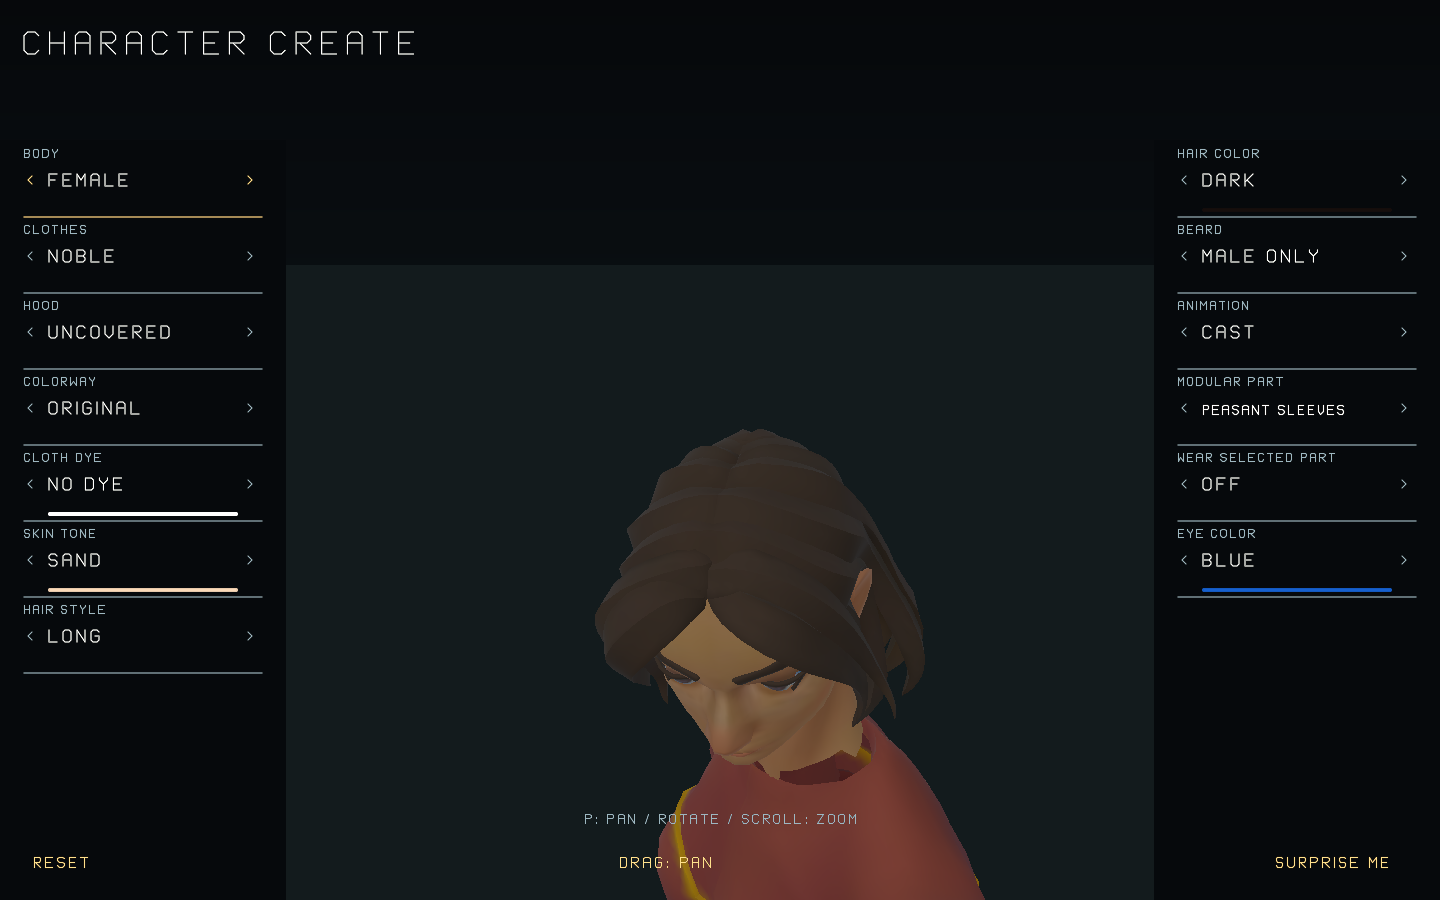
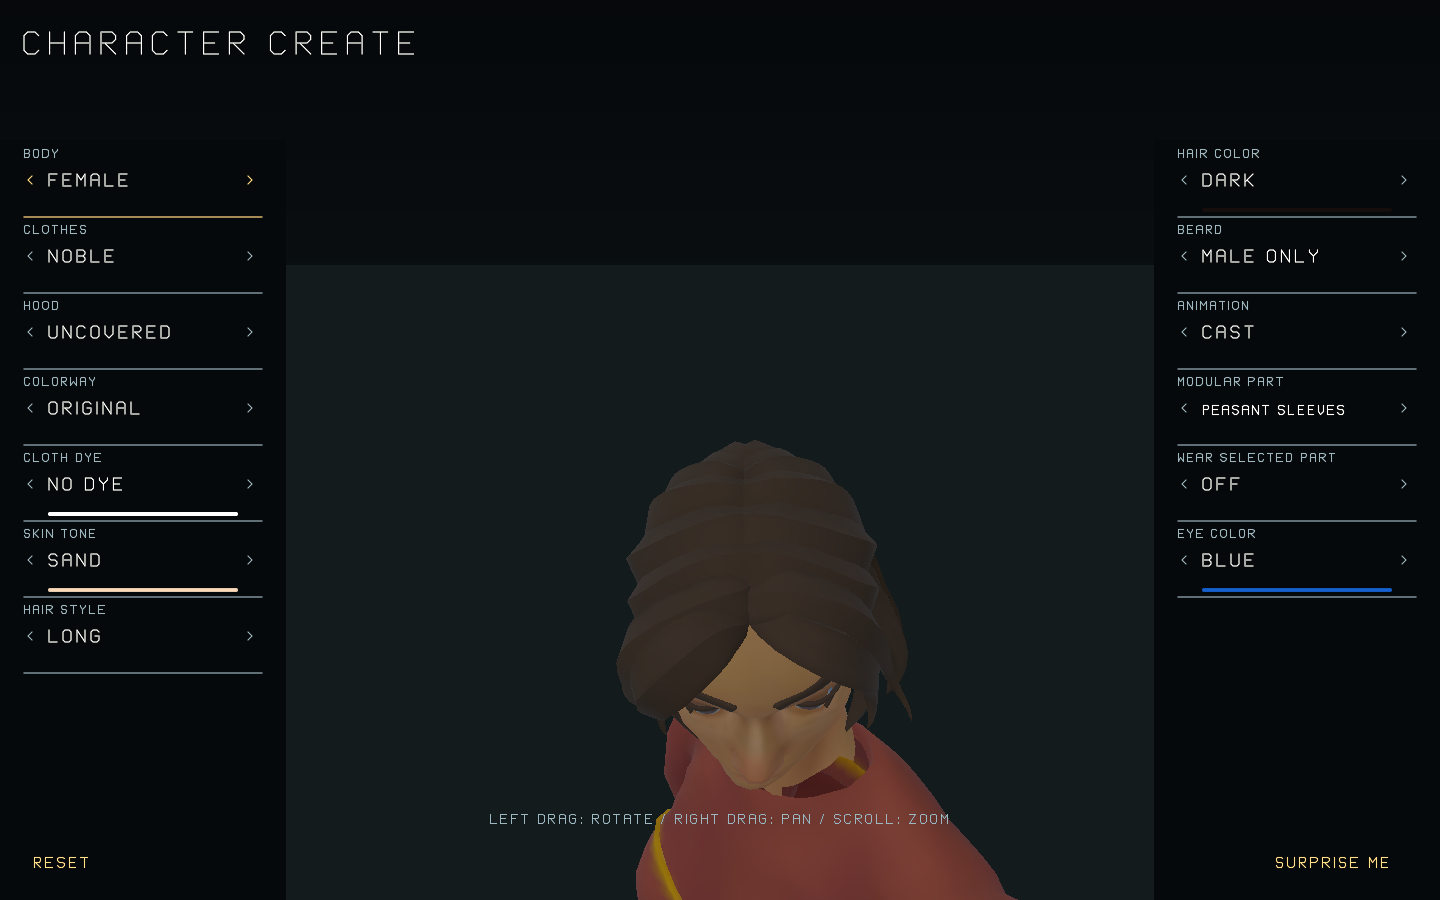
Use left-drag rotation and right-drag panning in Character Create

diff --git a/coax/web/host.js b/coax/web/host.js
@@ -23,6 +23,8 @@
 //   coaxial_blur(state)       the page lost the keyboard: nothing is held
 //   coaxial_pointer(state, x, y, phase, kind, id) device pixels; phase 0 down 1 move 2 up 3 cancel;
 //                             kind 0 a mouse, 1 a finger or pen; id tells fingers apart
+//   coaxial_pointer_buttons_v1(state, x, y, phase, kind, id, button) optional additive DOM button hook;
+//                             button 0 left, 2 right, -1 on ordinary pointer moves
 //   coaxial_wheel(state, dy)  the wheel, CSS pixels down (the page doesn't scroll)
 //   coaxial_tilt(state, dyaw, dpitch) the phone turned, radians (the OpenAgents app's gyro: coaxial.tilt)
 //   coaxial_inbox(state), coaxial_inbox_cap(), coaxial_message(state, kind, length)
@@ -3244,7 +3246,8 @@ for (const [type, phase] of [["pointerdown", 0], ["pointermove", 1], ["pointerup
     const dpr = scale();
     if (ph !== 1) touched = touch;
     if (ph === 0) startAudio();
-    call("coaxial_pointer", x * dpr, y * dpr, ph, touch ? 1 : 0, e.pointerId);
+    if (engine.exports.coaxial_pointer_buttons_v1) call("coaxial_pointer_buttons_v1", x * dpr, y * dpr, ph, touch ? 1 : 0, e.pointerId, e.button);
+    else call("coaxial_pointer", x * dpr, y * dpr, ph, touch ? 1 : 0, e.pointerId);
     after(ph === 2, ph === 2);
   });
 

diff --git a/apps/openagents-web/fivelab-face.c b/apps/openagents-web/fivelab-face.c
@@ -126,6 +126,12 @@ EXPORT("coaxial_pointer") uint32_t coaxial_pointer(uint32_t state, float x, floa
   if (kind != 0 && lab_at(state)->player) { touched = true; sticks = verse_sticks_world_touch(sticks, id, phase, x, y, width, height, dpr, now); return 1u; }
   return 0u;
 }
+// Additive DOM input hook; the original pointer export remains available to native hosts.
+EXPORT("coaxial_pointer_buttons_v1") uint32_t coaxial_pointer_buttons_v1(uint32_t state, float x, float y, int32_t phase, int32_t kind, int32_t id, int32_t button) {
+  if (lab_pointer_buttons(at(state), x, y, phase, kind, id, button)) return 1u;
+  if (kind != 0 && lab_at(state)->player) { touched = true; sticks = verse_sticks_world_touch(sticks, id, phase, x, y, width, height, dpr, now); return 1u; }
+  return 0u;
+}
 EXPORT("coaxial_wheel") uint32_t coaxial_wheel(uint32_t state, float dy) { return lab_wheel(at(state), dy) ? 1u : 0u; }
 EXPORT("coaxial_cursor") int32_t coaxial_cursor(uint32_t state) { return (int32_t)lab_cursor(at(state)); }
 

diff --git a/docs/verse/character-creator.md b/docs/verse/character-creator.md
@@ -111,13 +111,17 @@ checks pass; the release producer is 592,520 bytes.
 
 ## Camera panning
 
-Click DRAG: ROTATE / DRAG: PAN or press P to toggle the drag behavior. Pan mode
+Left mouse drag rotates; right mouse drag pans, with no mode toggle. On touch
+screens, tap DRAG: ROTATE / DRAG: PAN or press P to toggle the drag behavior. Pan mode
 translates the camera in its screen plane without changing character yaw or
 view pitch. Translation uses camera distance and focal length, so panning stays
 proportional to pointer travel when zoomed in. Both axes are bounded to two
 metres. RESET centers the camera and returns to Rotate mode; pan is temporary
-view state and is not part of the saved appearance. The mode control sits in
-the bottom center on desktop and next to Eye Color on phones.
+view state and is not part of the saved appearance. The touch mode control sits next to Eye Color on phones. Mouse gestures ignore
+the touch mode. The optional `coaxial_pointer_buttons_v1` browser input hook
+carries the DOM button number; the original pointer ABI remains unchanged.
+The right button never changes appearance controls, and the initial button is
+latched until its release or cancellation.
 
 Only Peasant, Ranger, Wizard and Noble remain. The removed custom outfit's
 geometry, palette textures and exporter are gone. Existing CC2 saves selecting

diff --git a/apps/openagents-web/realms/character-creator/index.md b/apps/openagents-web/realms/character-creator/index.md
@@ -6,7 +6,7 @@ Create a Quaternius human in Aethyr. Changes appear immediately on the animated 
 - Choose a colorway, cloth dye, skin tone, hair color and eye color (Brown, Blue, Green, Amber, Gray or Violet).
 - Browse modular clothing with MODULAR PART, then turn the selected piece on or off. Heavy armor is removed from the selector.
 - A hood hides hair. Optional pieces can overlap; turn unwanted pieces off.
-- Preview idle, walk, run and cast. Drag to turn and tilt; scroll to zoom. Click DRAG: ROTATE / DRAG: PAN or press P to switch between turning the character and panning across it; RESET centers the camera. Tab selects a control, arrows change it, Space changes animation.
+- Preview idle, walk, run and cast. Drag to turn and tilt; scroll to zoom. Left-drag rotates; right-drag pans. On touch screens, tap DRAG: ROTATE / DRAG: PAN to switch; RESET centers the camera. Tab selects a control, arrows change it, Space changes animation.
 - RESET restores the studio look. SURPRISE ME changes appearance. The browser keeps this studio's state in its own save slot.
 
 Art: Quaternius Modular Character Outfits - Fantasy Source, Universal Base Characters and Universal Animation Library, CC0 1.0 Universal. The renderer and animation playback are Aethyr's existing people pipeline. No WoW artwork or code is used.
